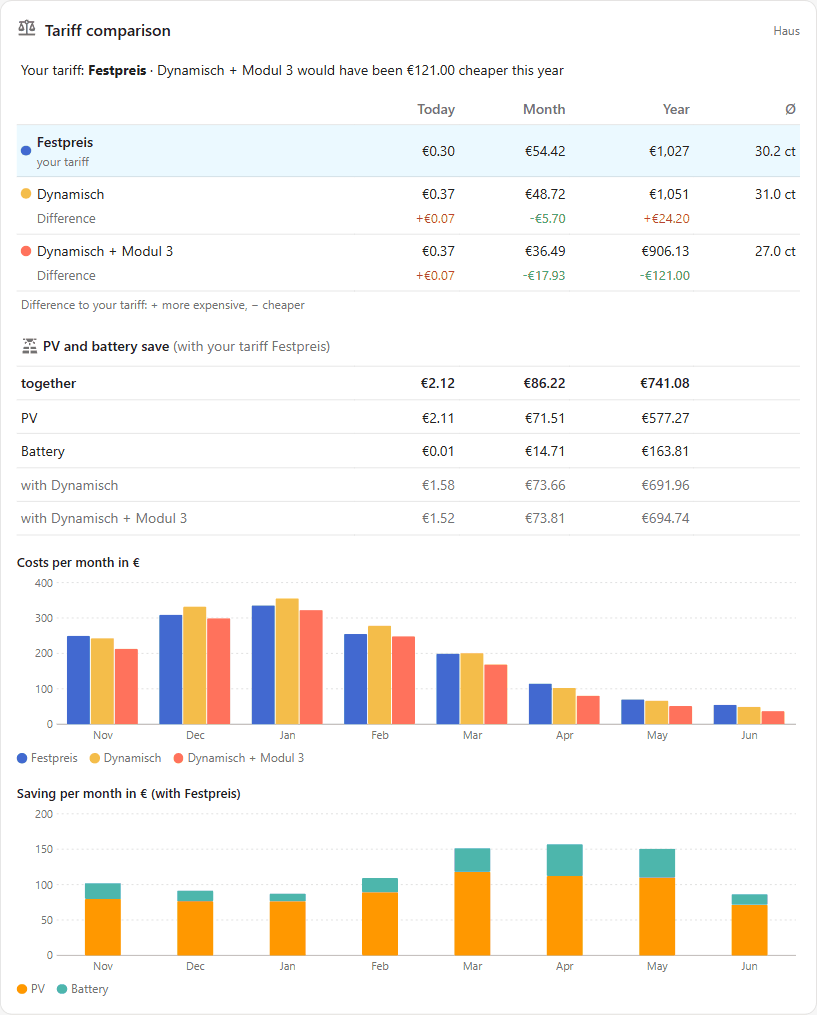
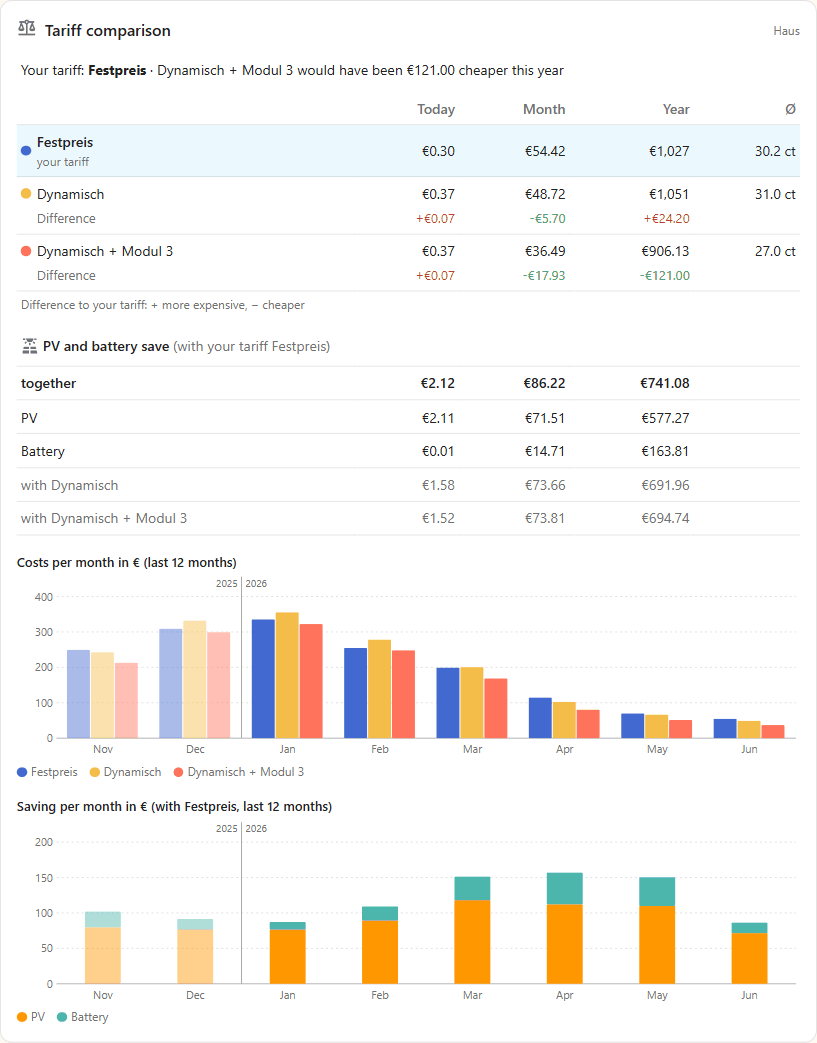
Card: charts show the last 12 months, previous year paler
The monthly charts now show exactly the current month and the eleven
before (until now 13, so in November two Novembers side by side). Months
of the previous calendar year are drawn paler, a thin line with both years
marks January, so the bright bars are the calendar year the column "Year"
and the headline count; no line in December. Titles say "(last 12
months)".

Demo: the card's clock runs from the moment of the view. README de/en
(chart bullet, new card screenshots), CHANGELOG, ENTWICKLUNG.

diff --git a/custom_components/tarifwacht/frontend/tarifwacht-card.js b/custom_components/tarifwacht/frontend/tarifwacht-card.js
@@ -49,8 +49,8 @@ const TEXT = {
     together: "zusammen",
     pv: "PV",
     battery: "Speicher",
-    costsPerMonth: "Kosten je Monat in €",
-    savingPerMonth: (name) => `Ersparnis je Monat in € (mit ${name})`,
+    costsPerMonth: "Kosten je Monat in € (letzte 12 Monate)",
+    savingPerMonth: (name) => `Ersparnis je Monat in € (mit ${name}, letzte 12 Monate)`,
     noStatistics: "Noch keine Langzeitstatistik.",
     parts: { tariffs: "Tarife", solar: "PV und Speicher", chart: "Diagramm je Monat" },
     editor: {
@@ -80,8 +80,8 @@ const TEXT = {
     together: "together",
     pv: "PV",
     battery: "Battery",
-    costsPerMonth: "Costs per month in €",
-    savingPerMonth: (name) => `Saving per month in € (with ${name})`,
+    costsPerMonth: "Costs per month in € (last 12 months)",
+    savingPerMonth: (name) => `Saving per month in € (with ${name}, last 12 months)`,
     noStatistics: "No long-term statistics yet.",
     parts: { tariffs: "Tariffs", solar: "PV and battery", chart: "Chart per month" },
     editor: {
@@ -150,6 +150,8 @@ const STYLE = `
   svg text { font-size: 11px; fill: var(--secondary-text-color); }
   svg .axis { stroke: var(--divider-color); stroke-width: 1; }
   svg .zero { stroke: var(--secondary-text-color); stroke-width: 1; opacity: 0.5; }
+  svg .turn { stroke: var(--secondary-text-color); stroke-width: 1; opacity: 0.6; }
+  svg text.year { font-size: 10px; }
   .legend { display: flex; flex-wrap: wrap; gap: 4px 12px; font-size: 12px; color: var(--secondary-text-color); margin-top: 4px; }
   .legend span::before { content: ""; display: inline-block; width: 10px; height: 10px; border-radius: 50%;
     margin-right: 4px; vertical-align: -1px; background: var(--c); }
@@ -277,8 +279,8 @@ function monthRows(hass, ids) {
   const known = months.get(key);
   if (!known?.loading && (!known || (known.due < Date.now() && !document.hidden))) {
     months.set(key, { ...known, loading: true });
-    // 13 months back; the recorder cuts months in the server's time zone,
-    // the last twelve complete ones and the current one are shown.
+    // Over a year back; the recorder cuts months in the server's time zone,
+    // the current month and the eleven before are shown.
     hass.callWS({
       type: "recorder/statistics_during_period",
       start_time: new Date(Date.now() - 400 * 86400000).toISOString(),
@@ -676,9 +678,14 @@ class TarifwachtCard extends HTMLElement {
 
   // ---- Charts -------------------------------------------------------------------------
 
+  /** "2026-11": year and month of a moment in the server's time zone. */
+  _ym(ms) {
+    return new Date(ms).toLocaleDateString("en-CA", { timeZone: this._timeZone(), year: "numeric", month: "2-digit" });
+  }
+
   /** Months of the series: [[start, {series key: change}]], the last twelve
-   * complete ones and the current one; the current month as the table
-   * shows it (the monthly statistics lag up to an hour). */
+   * months (the current one and the eleven before); the current month as
+   * the table shows it (the monthly statistics lag up to an hour). */
   _monthData(ids, series) {
     const rows = monthRows(this._hass, ids);
     if (rows === undefined) return undefined;
@@ -692,11 +699,16 @@ class TarifwachtCard extends HTMLElement {
         months.set(start, m);
       }
     }
-    const sorted = [...months.entries()].sort((a, b) => a[0] - b[0]).slice(-13);
+    const now = this._ym(Date.now());
+    const [year, month] = now.split("-").map(Number);
+    const back = year * 12 + month - 1 - 11;
+    const first = `${Math.floor(back / 12)}-${String((back % 12) + 1).padStart(2, "0")}`;
+    const sorted = [...months.entries()]
+      .filter(([start]) => this._ym(start) >= first && this._ym(start) <= now)
+      .sort((a, b) => a[0] - b[0]);
     if (sorted.length) {
-      const ym = (ms) => new Date(ms).toLocaleDateString("en-CA", { timeZone: this._timeZone(), year: "numeric", month: "2-digit" });
       const last = sorted[sorted.length - 1];
-      if (ym(last[0]) === ym(Date.now())) {
+      if (this._ym(last[0]) === now) {
         for (const s of series) {
           const value = statValue(this._hass, s.id, "month");
           if (typeof value === "number") last[1][s.key] = value;
@@ -729,13 +741,18 @@ class TarifwachtCard extends HTMLElement {
   }
 
   /** Bars per month: side by side (costs per tariff) or stacked (PV and
-   * battery; a negative part goes below zero). Drawn at the card's width. */
+   * battery; a negative part goes below zero). Drawn at the card's width.
+   * Months of the previous calendar year are paler; a thin line before
+   * January with the two years marks the turn of the year (as the column
+   * "Year" counts the calendar year). */
   _barChart(caption, months, series, stacked) {
+    const thisYear = this._ym(Date.now()).slice(0, 4);
+    const turn = months.findIndex(([start]) => this._ym(start).slice(0, 4) === thisYear);
     const W = Math.max(260, Math.round((this._width || 520) - 32));
-    const H = 170;
+    const H = turn > 0 ? 184 : 170;
     const L = 40;
     const R = 4;
-    const T = 8;
+    const T = turn > 0 ? 22 : 8;
     const B = 20;
     let lo = 0;
     let hi = 0;
@@ -767,14 +784,22 @@ class TarifwachtCard extends HTMLElement {
     const slot = (W - L - R) / months.length;
     const every = slot < 30 ? 2 : 1;
     let bars = "";
+    if (turn > 0) {
+      const x = (L + turn * slot).toFixed(1);
+      const year = (start) => new Date(start).toLocaleDateString(lang, { year: "numeric", timeZone: zone });
+      bars += `<line class="turn" x1="${x}" x2="${x}" y1="2" y2="${H - B}"/>`
+        + `<text class="year" x="${(L + turn * slot - 4).toFixed(1)}" y="12" text-anchor="end">${escapeHtml(year(months[turn - 1][0]))}</text>`
+        + `<text class="year" x="${(L + turn * slot + 4).toFixed(1)}" y="12">${escapeHtml(year(months[turn][0]))}</text>`;
+    }
     months.forEach(([start, m], i) => {
       const date = new Date(start);
       const label = date.toLocaleDateString(lang, { month: "short", timeZone: zone });
       const long = date.toLocaleDateString(lang, { month: "long", year: "numeric", timeZone: zone });
+      const past = turn > 0 && i < turn ? ` fill-opacity="0.45"` : "";
       const rect = (x, from, to, width, s, value) => {
         const top = Math.min(y(from), y(to));
         const height = Math.max(Math.abs(y(from) - y(to)), value ? 1 : 0);
-        return `<rect x="${x.toFixed(1)}" y="${top.toFixed(1)}" width="${width.toFixed(1)}" height="${height.toFixed(1)}" fill="${s.color}" rx="1">`
+        return `<rect x="${x.toFixed(1)}" y="${top.toFixed(1)}" width="${width.toFixed(1)}" height="${height.toFixed(1)}" fill="${s.color}"${past} rx="1">`
           + `<title>${escapeHtml(long)} · ${escapeHtml(s.label)}: ${escapeHtml(this._eur(value))}</title></rect>`;
       };
       if (stacked) {

diff --git a/docs/demo/index.html b/docs/demo/index.html
@@ -909,7 +909,13 @@
           <div class="cardtype"><code>type: custom:tarifwacht-card</code></div></section>`;
       }
 
+      // The card's clock runs from the moment of the view (its last twelve
+      // months and the current calendar year count from "now"); the page
+      // itself does not use Date.now.
+      const REAL_NOW = Date.now;
       function mountCard(data, view) {
+        const shift = new Date(view.now).getTime() - REAL_NOW();
+        Date.now = () => REAL_NOW() + shift;
         demo = demoHass(data, view, state.household);
         const slot = document.querySelector("[data-card]");
         const card = document.createElement("tarifwacht-card");

diff --git a/docs/ENTWICKLUNG.md b/docs/ENTWICKLUNG.md
@@ -150,7 +150,7 @@ Für den Vergleich im MVP heißt das: Tarifwacht sollte etwas **mehr** Verbrauch
 - **Manifest-Kategorien** (seit 2026-11-05, Commit `539d7e4`, Version 0.1.3): `["energy.energy_prices", "energy.meters_monitoring"]` für die Integrationsübersicht von HA 2026.11 (Werte laut <https://contributors.home-assistant.io/core/integrations/categories/>: ein bis drei, `parent` oder `parent.child`); behebt die Warnung der HACS-Prüfung „The integration manifest has no categories“. Das hassfest-Image 2026.10.4 kannte den Schlüssel noch nicht (Versuch 2026-10-27, Commit `0c0464e`: „Invalid manifest: not a valid option at 'categories'“); mit `hassfest:latest` = 2026.11.0 ist die CI grün (`test`, `compat`, `hassfest`, `hacs`).
 - **Karte** (seit 2026-11-08, Muster Wärmewacht 0.4.3; `frontend/tarifwacht-card.js`, `cards.py`, `frontend_resource.py`): eine Karte `custom:tarifwacht-card` statt mehrerer, weil die Fragen zusammengehören (was kostet mein Tarif, wäre ein anderer günstiger, was sparen PV und Speicher – heute, Monat, Kalenderjahr). Reines `HTMLElement` ohne Lit und ohne fremde Bibliotheken, Texte de/en nach `hass.locale`, Farben aus den Theme-Variablen (Tarife `--graph-color-N`, PV `--energy-solar-color`, Speicher `--energy-battery-out-color`), eigene SVG-Säulen in Kartenbreite (`ResizeObserver`, damit die Schrift am Handy lesbar bleibt). Bei schmaler Karte (Container-Query ≤ 440 px) wandert Ø unter den Tarifnamen.
   - **Datenquelle:** Websocket-Befehl `tarifwacht/tariffs` (nicht nur für Admins) mit irgendeiner Entität des Eintrags → Titel, aktueller Tarif, je Tarif Schlüssel, Name und Entity-IDs der Sensoren (`cost`, `consumption_cost`, `average_price`, `difference`, `saving_pv`, `saving_battery`), `solar`/`battery`. Entity-IDs zur Abfragezeit aus der Entitätsregistrierung (Unique ID), deaktivierte fehlen. Verworfen: Entity-IDs als Attribute von „Günstigster Tarif“ – blieben nach dem Umbenennen einer Entität bis zum nächsten Schreiben veraltet und landeten im Recorder. Für Standardkarten bekommt „Günstigster Tarif“ nur das Attribut `current` (Name des aktuellen Tarifs).
-  - **Werte:** je Sensor und Zeitraum `recorder/statistic_during_period` mit `calendar` und `change` – dieselben Zahlen wie eine Statistik-Karte, inklusive der Fünf-Minuten-Statistik; „Jahr“ ist das Kalenderjahr. Säulen aus `recorder/statistics_during_period` (`period: month`, 400 Tage, die letzten 13 Monate); den laufenden Monat ersetzt die Karte durch den Tabellenwert, weil die Monatsstatistik bis zu einer Stunde nachhinkt. „Zusammen“ = PV + Speicher (fehlt einer, „–“). Die Kopfzeile („wäre dieses Jahr … günstiger gewesen“) zählt das Kalenderjahr wie die Spalte „Jahr“ (Entscheidung des Inhabers 2026-11-08): kleinste Jahresänderung von `difference` der anderen Tarife (< −0,005 € → dieser Tarif und Betrag, sonst „✓ dieses Jahr am günstigsten“, nur wenn alle bekannt sind), ohne aktuellen Tarif die kleinste von `cost`; die Jahreswerte fragt sie auch ohne Spalte „Jahr“ ab. Solange ein Wert fehlt, behauptet sie nichts. Nicht mehr aus `ranking` von „Günstigster Tarif“ (seit der Einrichtung), weil Kopfzeile und Spalte sonst verschiedene Beträge zeigten. Ø bleibt seit der Einrichtung.
+  - **Werte:** je Sensor und Zeitraum `recorder/statistic_during_period` mit `calendar` und `change` – dieselben Zahlen wie eine Statistik-Karte, inklusive der Fünf-Minuten-Statistik; „Jahr“ ist das Kalenderjahr. Säulen aus `recorder/statistics_during_period` (`period: month`, 400 Tage), gezeigt werden genau die letzten zwölf Monate (der laufende und die elf davor, Monate in der Zeitzone des Servers; Monate ohne Statistik fehlen); den laufenden Monat ersetzt die Karte durch den Tabellenwert, weil die Monatsstatistik bis zu einer Stunde nachhinkt. Damit die Säulen zur Spalte „Jahr“ passen (Entscheidung des Inhabers 2026-11-08, gleiche Regel wie die Wärmewacht-Karte mit ihrer Saison): Monate des Vorjahres blasser (`fill-opacity` 0,45 derselben Farbe), vor dem Januar eine dünne Linie mit beiden Jahreszahlen, nur wenn der Bereich über einen Jahreswechsel reicht (im Dezember nicht); Überschriften „(letzte 12 Monate)“. Bisher 13 Monate – im November standen zwei Novembers nebeneinander. „Zusammen“ = PV + Speicher (fehlt einer, „–“). Die Kopfzeile („wäre dieses Jahr … günstiger gewesen“) zählt das Kalenderjahr wie die Spalte „Jahr“ (Entscheidung des Inhabers 2026-11-08): kleinste Jahresänderung von `difference` der anderen Tarife (< −0,005 € → dieser Tarif und Betrag, sonst „✓ dieses Jahr am günstigsten“, nur wenn alle bekannt sind), ohne aktuellen Tarif die kleinste von `cost`; die Jahreswerte fragt sie auch ohne Spalte „Jahr“ ab. Solange ein Wert fehlt, behauptet sie nichts. Nicht mehr aus `ranking` von „Günstigster Tarif“ (seit der Einrichtung), weil Kopfzeile und Spalte sonst verschiedene Beträge zeigten. Ø bleibt seit der Einrichtung.
   - **Abfragen:** gemeinsam für alle Karten der Seite (je Verbindung zwischengespeichert), neu nach dem nächsten Fünf-Minuten-Lauf des Recorders + 40 s, Säulen alle 30 min; nichts, solange die Seite verborgen ist; ein Zeitgeber je Minute für ruhige Installationen. Beim Haus mit drei Tarifen und Speicher sind es 33 kleine Abfragen je fünf Minuten.
   - **Registrierung:** wie Wärmewacht – Datei unter `/tarifwacht/tarifwacht-card.js`, als Dashboard-Ressource mit `?v=<Version>` (im YAML-Modus als Extra-Modul-URL); `async_setup_entry` trägt ein, `async_remove_entry` des letzten Eintrags aus. Der Bericht für Fehlermeldung nennt den Weg (Zeile `card`).
 - **Blueprint „Monatsübersicht“** (`blueprints/automation/tarifwacht/monatsuebersicht.yaml`, Muster der Einspeisewacht): Zeit-Auslöser zur gewählten Uhrzeit, Bedingung „Monatserster“ als Template (keine native Bedingung für den Tag im Monat), `tarifwacht.compare` für den Vormonat in Ortszeit, Text als Variablen `title`/`message` an eine frei wählbare Aktion (Standard: `persistent_notification.create`). Tarife ohne alle Preise stehen mit „Preise fehlen“ statt einer Differenz. Test: `tests/ha/test_blueprints.py` mit nachgebildeter Antwort.
@@ -160,7 +160,7 @@ Für den Vergleich im MVP heißt das: Tarifwacht sollte etwas **mehr** Verbrauch
 - GitHub: Organisation `tarifwacht` (angelegt 2026-10-26), Repo `integration`. Wie bei der Einspeisewacht: Standard-Branch `main`, Ruleset „main schützen“ (nur grüne CI `test`, `hassfest`, `compat`; kein Löschen, kein Force-Push) und „Release-Tags schützen“ (`v*` unveränderlich). Brand-Bilder seit 2026-10-26 (`docs/BRAND.md`), der CI-Job `hacs` prüft sie mit.
 - **GitHub-Sicherheit (gesetzt 2026-10-26, wie Einspeisewacht plus CodeQL):** Organisation mit Zwei-Faktor-Pflicht (ohne „nur sichere Methoden“ – SMS bleibt möglich), Beschreibung und Link gesetzt. Repo: Secret Scanning mit Push-Schutz, Dependabot-Alarme und -Sicherheitsupdates, private Meldung von Sicherheitslücken (für `SECURITY.md`), Branches nach Merge löschen, Actions nur GitHub-eigene plus `astral-sh/setup-uv@*`, `home-assistant/actions/*`, `hacs/action@*` (neue Actions dort freigeben!), Standard-Workflow-Rechte nur lesen, Code Scanning (CodeQL, Standardkonfiguration). **Nicht** gesetzt: unveränderliche Releases – sonst kann `release-asset.yml` die ZIP nach dem Veröffentlichen nicht anhängen; die Tags `v*` schützt der Regelsatz.
 - Releases, auch Betas, als **reguläre** GitHub-Releases (nicht „Pre-release“) – sonst sucht HACS die ZIP unter dem Commit und scheitert (Erfahrung Einspeisewacht 0.1.0b2).
-- **Demo** (seit 2026-11-03, Vorbild Streckenwacht): statische Seite `docs/demo/` auf GitHub Pages (`https://tarifwacht.github.io/integration/`, Quelle „GitHub Actions“, Workflow `.github/workflows/pages.yml` bei Änderungen auf `main`; er legt die Seite an die Wurzel und schreibt `../../custom_components/tarifwacht/` auf `./` um). **Nur erfundene Daten**, sichtbar gekennzeichnet: Börsenpreise je Viertelstunde, zwei Haushalte und drei Tarife ohne Anbieter- oder Netzbetreibernamen; die Werte sind keine Preisbestandteile im Sinne der Arbeitsregel 2 und stehen nur in `tools/make_demo.py`. Das Skript bucht sie mit dem Code der Integration (`Engine`, `tariff_from_data`, `costs_between`, `compared_cost`) über ein Jahr und schreibt je Haushalt und Zeitpunkt, was Dashboard, Geräte und Aktion zeigen. Die **Karte** läuft unverändert auf einem erfundenen `hass` (Muster Wärmewacht): Ihre Websocket-Abfragen beantwortet die Seite aus `card` je Zeitpunkt (Kalendertag, -monat, -jahr bis zum Zeitpunkt und je Monat seit der Einrichtung; Differenz = Kosten minus Kosten des aktuellen Tarifs wie `statistics_import.py`, Ersparnis aus vollen Stunden wie die Sensoren) und `tarifwacht/tariffs` wie `cards.card_info` – bei Änderungen dort mitziehen. Die Wohnung zeigt keinen Teil „PV und Speicher“. Der Workflow kopiert `custom_components/tarifwacht/frontend/` mit. Das Haus hat eine erfundene PV-Anlage mit Speicher am Hybrid-Wechselrichter (Sonnenstand für ein Süddach, sonnige Tage wie im Börsenpreis, Speicher mit Eigenverbrauch zuerst); gebucht wird nur sein Netzbezug, die Ersparnis rechnet `solar.solar_totals` aus den Stundensummen. Nachgebaut, weil der Code HA importiert: die Zeilen der Antwort von `compare` (`services._tariff_rows`, `_solar_rows`, `_solar_response`), die Attribute von „Ersparnis PV“ und „Ersparnis Speicher“ (`sensor._saving_pv_attributes`, `_saving_battery_attributes`) und der Text des Blueprints „Monatsübersicht“ – bei Änderungen dort mitziehen. Neu erzeugen: `uv run tools/make_demo.py` (~40 s). Symbole eingebettet (`docs/demo/icons.js`), zur Laufzeit keine Anfrage an Dritte.
+- **Demo** (seit 2026-11-03, Vorbild Streckenwacht): statische Seite `docs/demo/` auf GitHub Pages (`https://tarifwacht.github.io/integration/`, Quelle „GitHub Actions“, Workflow `.github/workflows/pages.yml` bei Änderungen auf `main`; er legt die Seite an die Wurzel und schreibt `../../custom_components/tarifwacht/` auf `./` um). **Nur erfundene Daten**, sichtbar gekennzeichnet: Börsenpreise je Viertelstunde, zwei Haushalte und drei Tarife ohne Anbieter- oder Netzbetreibernamen; die Werte sind keine Preisbestandteile im Sinne der Arbeitsregel 2 und stehen nur in `tools/make_demo.py`. Das Skript bucht sie mit dem Code der Integration (`Engine`, `tariff_from_data`, `costs_between`, `compared_cost`) über ein Jahr und schreibt je Haushalt und Zeitpunkt, was Dashboard, Geräte und Aktion zeigen. Die **Karte** läuft unverändert auf einem erfundenen `hass` (Muster Wärmewacht): Ihre Websocket-Abfragen beantwortet die Seite aus `card` je Zeitpunkt (Kalendertag, -monat, -jahr bis zum Zeitpunkt und je Monat seit der Einrichtung; Differenz = Kosten minus Kosten des aktuellen Tarifs wie `statistics_import.py`, Ersparnis aus vollen Stunden wie die Sensoren) und `tarifwacht/tariffs` wie `cards.card_info` – bei Änderungen dort mitziehen. Die Wohnung zeigt keinen Teil „PV und Speicher“. Der Workflow kopiert `custom_components/tarifwacht/frontend/` mit. Die Uhr der Karte (`Date.now`) stellt die Seite beim Einbinden auf den Zeitpunkt der Ansicht, sonst rechnete die Karte ihre letzten zwölf Monate und das Kalenderjahr vom echten Datum aus; die Seite selbst nutzt `Date.now` nicht. Das Haus hat eine erfundene PV-Anlage mit Speicher am Hybrid-Wechselrichter (Sonnenstand für ein Süddach, sonnige Tage wie im Börsenpreis, Speicher mit Eigenverbrauch zuerst); gebucht wird nur sein Netzbezug, die Ersparnis rechnet `solar.solar_totals` aus den Stundensummen. Nachgebaut, weil der Code HA importiert: die Zeilen der Antwort von `compare` (`services._tariff_rows`, `_solar_rows`, `_solar_response`), die Attribute von „Ersparnis PV“ und „Ersparnis Speicher“ (`sensor._saving_pv_attributes`, `_saving_battery_attributes`) und der Text des Blueprints „Monatsübersicht“ – bei Änderungen dort mitziehen. Neu erzeugen: `uv run tools/make_demo.py` (~40 s). Symbole eingebettet (`docs/demo/icons.js`), zur Laufzeit keine Anfrage an Dritte.
 
 ## 7. Offene Fragen
 

diff --git a/CHANGELOG.md b/CHANGELOG.md
@@ -1,5 +1,10 @@
 # Changelog
 
+## Unveröffentlicht
+
+- **Karte: Diagramme passen zur Spalte „Jahr“.** Die Säulen „Kosten je Monat“ und „Ersparnis je Monat“ zeigen genau die letzten zwölf Monate (den laufenden und die elf davor); bisher waren es dreizehn, im November also zwei Novembers nebeneinander. Monate des Vorjahres sind blasser, eine dünne Linie vor dem Januar mit den beiden Jahreszahlen trennt die Jahre – kräftig ist so genau das Kalenderjahr, das die Spalte „Jahr“ und die Kopfzeile zählen. Im Dezember liegen alle zwölf Monate im laufenden Jahr, dann gibt es keine Linie. Die Überschriften sagen jetzt „(letzte 12 Monate)“. Bild in der README neu.
+- **Demo:** Die Uhr der Karte läuft ab dem gezeigten Zeitpunkt (Winter- oder Sommerabend), damit die letzten zwölf Monate und das Kalenderjahr dazu passen.
+
 ## 0.2.1 – 2026-11-08
 
 - **Neu: eigene Karte „Tarifwacht“** fürs Dashboard, ohne Zusatzkarten aus HACS (*Dashboard bearbeiten → Karte hinzufügen →* „Tarifwacht“). Sie zeigt auf einen Blick, was dein Tarif kostet, ob ein anderer dieses Jahr günstiger gewesen wäre (und um wie viel) und was PV und Speicher sparen – jeweils heute, im Monat und im Kalenderjahr: oben dein Tarif, darunter jeder andere Tarif mit seinem Unterschied zu deinem (rot teurer, grün günstiger), mit PV und Speicher die Ersparnis zusammen und einzeln und was sie mit jedem anderen Tarif gespart hätten, dazu Säulen der letzten zwölf Monate. Die Karte passt sich an: Ohne PV-Anlage fehlt der Teil „PV und Speicher“, ohne Speicherzähler die Zeile „Speicher“. Im Editor wählst du nur den Eintrag; Tarife und Sensoren findet sie selbst, auch nach dem Umbenennen von Entitäten. Teile (Tarife, PV und Speicher, Diagramm) und Zeiträume sind wählbar, so kann die Karte auch zweimal ins Dashboard – etwa nur „PV und Speicher“ neben dem Speicher. Die Werte kommen aus der Langzeitstatistik wie bei einer Statistik-Karte, mit „Statistik nachtragen“ auch vor der Einrichtung; die Karte fragt alle fünf Minuten neu und nicht, solange die Seite im Hintergrund ist. Tarifwacht trägt sie selbst als Dashboard-Ressource ein und beim Entfernen des letzten Eintrags wieder aus. Deutsch und Englisch, helles und dunkles Theme, auch am Handy.

diff --git a/README.md b/README.md
@@ -190,7 +190,7 @@ Tarifwacht bringt eine eigene Karte mit, ganz ohne Zusatzkarten aus HACS. Sie ze
 - **Kopfzeile:** dein Tarif (der als aktuell markierte) und ob er dieses Jahr am günstigsten war – sonst, welcher Tarif wie viel günstiger gewesen wäre. Gezählt wird das Kalenderjahr bis jetzt, wie in der Spalte „Jahr“ (der Betrag ist dort der Unterschied dieses Tarifs); im Jahr der Einrichtung ab der Einrichtung, mit [Statistik nachtragen](#statistik-nachtragen) ab dem 1. Januar. Der Sensor „Günstigster Tarif“ zählt dagegen seit der Einrichtung.
 - **Tarife:** Kosten gesamt (mit Grundpreis) je Tarif heute, im Monat und im Jahr, dazu der Durchschnittspreis seit der Einrichtung (Ø). Dein Tarif steht oben und ist hervorgehoben; unter jedem anderen Tarif der **Unterschied** zu deinem, rot wenn er teurer gewesen wäre, grün wenn günstiger.
 - **PV und Speicher** (nur mit [PV und Speicher](#pv-und-speicher)): was PV und Speicher mit deinem Tarif gespart haben, zusammen und einzeln (die Zeile Speicher nur mit Speicherzählern), und darunter, was sie zusammen mit jedem anderen Tarif gespart hätten.
-- **Diagramm:** Säulen der letzten zwölf Monate – Kosten je Tarif und die Ersparnis durch PV und Speicher mit deinem Tarif.
+- **Diagramm:** Säulen der letzten zwölf Monate (der laufende und die elf davor) – Kosten je Tarif und die Ersparnis durch PV und Speicher mit deinem Tarif. Monate des Vorjahres sind blasser, eine dünne Linie vor dem Januar trennt die Jahre; kräftig ist also genau das Kalenderjahr, das die Spalte „Jahr“ zählt.
 
 Die Werte je Zeitraum kommen aus der Langzeitstatistik, genau wie bei einer Statistik-Karte mit Kalenderzeitraum: Tag, Monat und Jahr in der Zeitzone von Home Assistant. Gibt es für einen Zeitraum keine Statistik, steht „–“. Mit [Statistik nachtragen](#statistik-nachtragen) reichen Monat, Jahr und Diagramm auch vor die Einrichtung zurück. Die Karte fragt die Statistik nach jedem Fünf-Minuten-Lauf des Recorders neu ab, mehrere Karten teilen sich die Abfragen, und solange die Seite im Hintergrund ist, fragt sie nichts. Ein Klick auf einen Wert öffnet die Details.
 

diff --git a/README.en.md b/README.en.md
@@ -192,7 +192,7 @@ Tarifwacht brings a card of its own, no extra cards from HACS needed. At a glanc
 - **Headline:** your tariff (the one marked current) and whether it has been the cheapest this year – otherwise which tariff would have been how much cheaper. It counts the calendar year until now, as the column "Year" does (the amount is that tariff's difference there); in the year of the setup from the setup, with [import statistics](#import-statistics) from 1 January. The sensor "Cheapest tariff", by contrast, counts since the setup.
 - **Tariffs:** total cost (base price included) per tariff today, this month and this year, plus the average price since the setup (Ø). Your tariff is on top and highlighted; below every other tariff its **difference** to yours, red if it would have cost more, green if less.
 - **PV and battery** (only with [PV and battery](#pv-and-battery)): what PV and battery saved with your tariff, together and each (the battery row only with battery meters), and below, what they would have saved together with every other tariff.
-- **Chart:** bars of the last twelve months – cost per tariff and the saving by PV and battery with your tariff.
+- **Chart:** bars of the last twelve months (the current one and the eleven before) – cost per tariff and the saving by PV and battery with your tariff. Months of the previous year are paler, a thin line before January separates the years; so the bright bars are exactly the calendar year the column "Year" counts.
 
 The values per period come from the long-term statistics, just as in a statistic card with a calendar period: day, month and year in Home Assistant's time zone. Without statistics for a period it shows "–". With [import statistics](#import-statistics), month, year and chart also reach back before the setup. The card asks the statistics again after each five-minute run of the recorder, several cards share the requests, and while the page is in the background it asks nothing. A click on a value opens the details.
 
